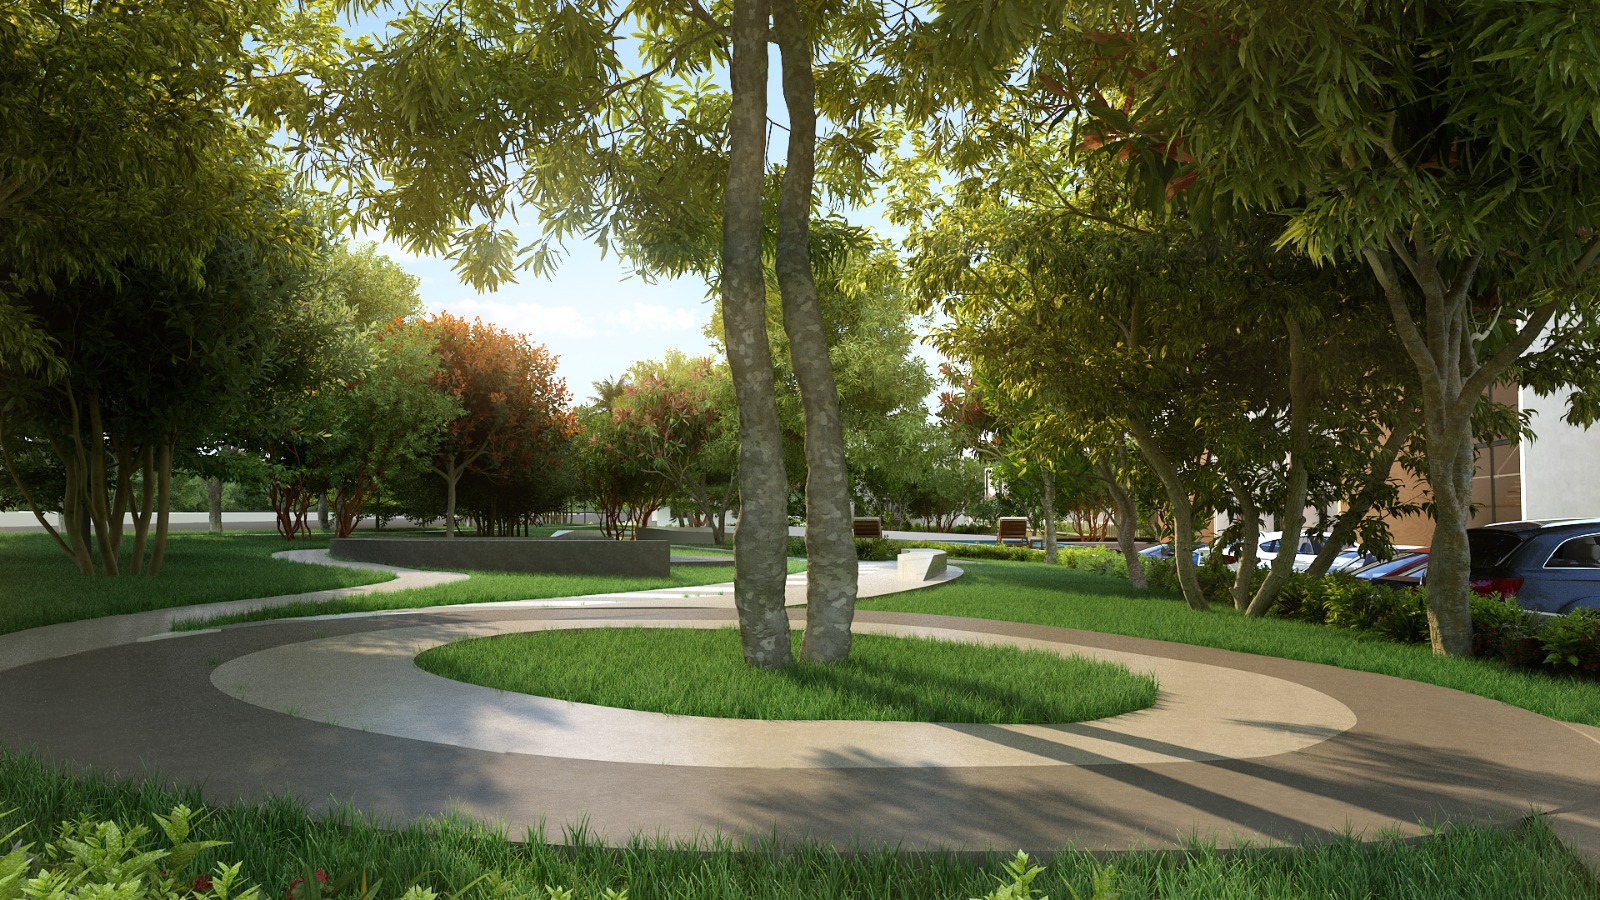
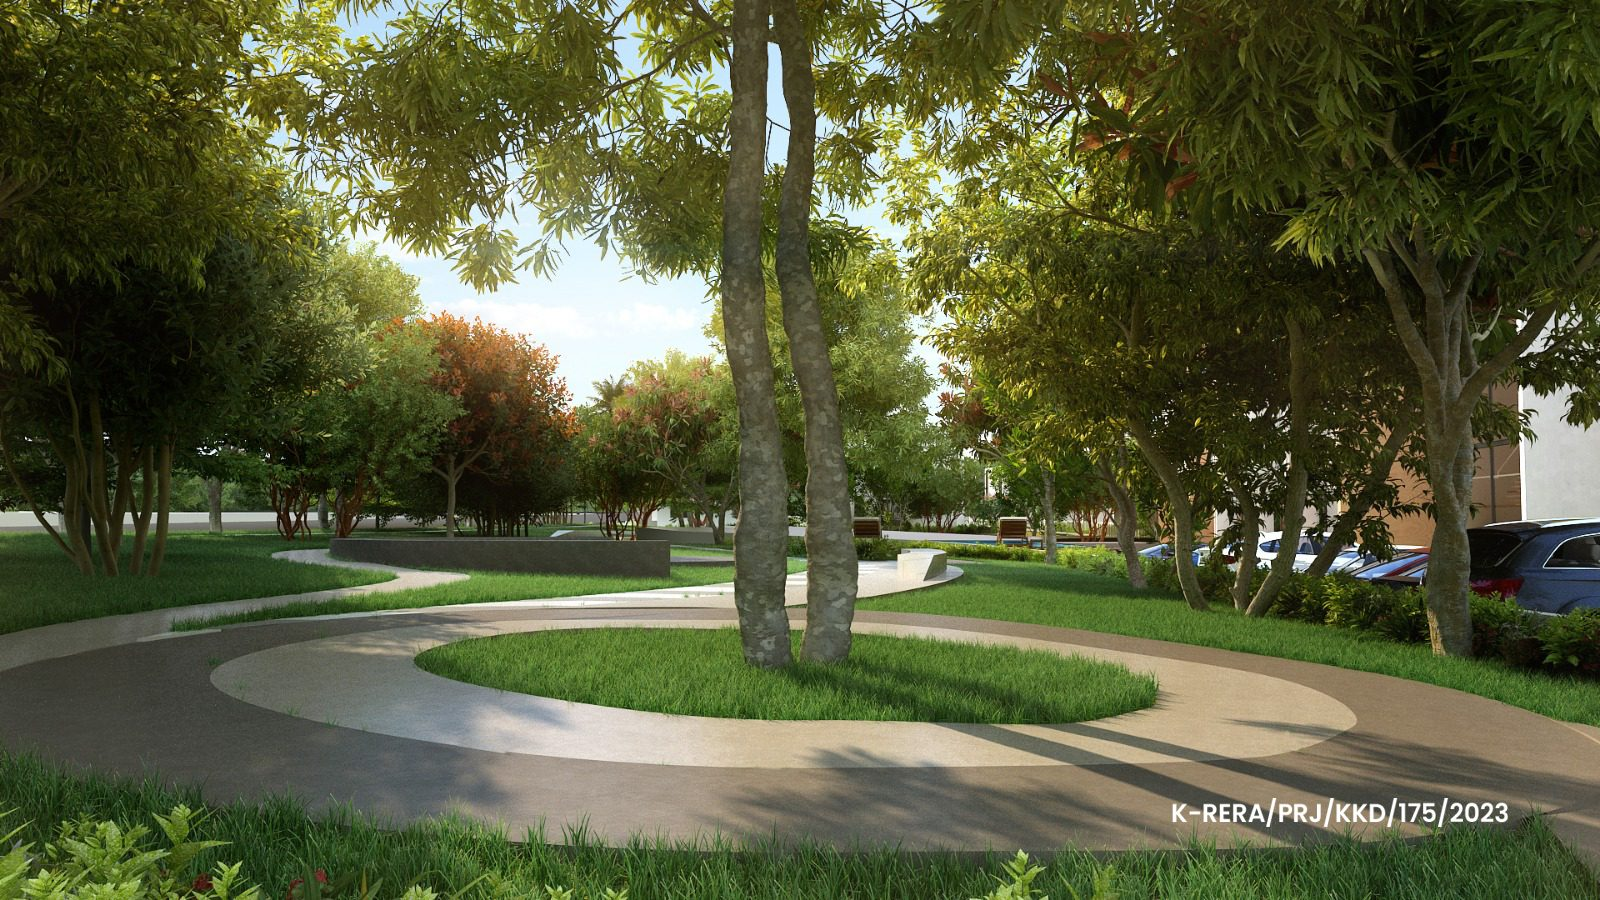
fgf

Changed region(s): [[0.75, 0.8711, 0.9375, 0.9333]]

diff --git a/projectsgreen.html b/projectsgreen.html
@@ -151,7 +151,7 @@
     </section>
 
 
-    <section class="position-relative z-1 pt-5 backgroundimage"
+    <section class="position-relative z-1 pt-5 backgroundimage bgpositionbottom"
       style="background-image: url(assets/images/GREENCITY/ENTRY.jpeg); height: 80vh;">
       <!-- <img class="w-100" src="assets/images/Mainbanner.jpg" alt="" /> -->
       <div class="text-white text-center position-absolute top-0 start-0 ps-5 pt-5">
@@ -186,7 +186,7 @@
       </div>
     </section>
     <section>
-      <div class="container backgroundimage"
+      <div class="container backgroundimage bgpositionbottom"
         style="background-image: url(assets/images/GREENCITY/RECREATION\ \(1\).jpeg);">
         <div class="row">
           <div class="col-12 col-lg-4 ps-5 py-5">
@@ -204,18 +204,18 @@
     <section style="background-color: beige;">
       <div class="container">
         <div class="row">
-          <div class=" col-lg-4 col-12 py-3 ps-0">
+          <div class=" col-lg-4 col-12 py-3 ps-0 pe-sm-0 pe-lg-3">
             <div class=" position-relative ps-0"
               style="background-image: url(assets/images/GREENCITY/STREET\ \(1\).jpeg); min-height: 300px;background-size: cover;">
               <div class="position-absolute top-50 start-50 translate-middle text-center" type="button"
                 data-bs-toggle="modal" data-bs-target="#exampleModal">
-                <img style="max-width: 70px;" src="assets/images/project/dowload.png" alt="">
+                <img style="max-width: 70px;" class="bgpositionbottom" src="assets/images/project/dowload.png" alt="">
                 <h4 class="text-white py-3">DOWNLOAD BROCHURE</h4>
               </div>
             </div>
           </div>
 
-          <div class="col-lg-8 col-12 position-relative backgroundimage py-3 pe-0">
+          <div class="col-lg-8 col-12 position-relative backgroundimage bgpositionbottom py-3 ps-sm-0 pe-0">
             <div class="w-100"
               style="background-image: url(assets/images/GREENCITY/RECREATION\ \(3\).jpeg);background-size: cover; min-height: 300px;">
             </div>

diff --git a/index.html b/index.html
@@ -198,8 +198,8 @@
         bgvideo.play();
       </script>
       <!-- <img class="w-100" src="assets/images/Mainbanner.jpg" alt="" /> -->
-      <!-- <div class="text-white ps-5 pb-5 position-absolute bottom-0 start-0">
-        <h5>
+      <div class="text-white ps-5 pb-5 position-absolute bottom-0 start-0">
+        <!-- <h5>
           SUSTAINABLE <br />
           GLOBAL HABITAT
         </h5>
@@ -207,8 +207,9 @@
 
         <a href="projects.html" class="rounded-0 btn text-white mt-2" style="background-color: #16254c">
           Explore Now
-        </a>
-      </div> -->
+        </a> -->
+        <p class="text-white-50">K-RERA/PRJ/KKD/175/2023</p>
+      </div>
 
       <div class="d-none col-10 position-absolute top-100 start-50 translate-middle">
         <div class="accordion d-block d-sm-none" id="accordionExample">
@@ -378,7 +379,7 @@
       <div class="row">
         <div class="position-relative col-lg-4 col-sm-12 p-2 p-lg-0">
           <a class="text-decoration-none text-white" href="designforlife.html">
-            <img src="assets/images/design4life.jpeg" class="w-100 zoom" alt="">
+            <img src="assets/images/home/griddesignforlife.jpg" class="w-100 zoom" alt="">
             <div class="position-absolute top-50 start-50 translate-middle">
               <h5> DESIGN FOR LIFE</h5>
             </div>

diff --git a/values.html b/values.html
@@ -152,8 +152,8 @@
             </section>
 
 
-            <section class="position-relative z-1 backgroundimage" style="background-image: url(assets/images/values/STREET\ \(2\).jpeg); height: 80vh;">
-                <h5 class="text-white p-2" style="
+            <section class="position-relative z-1 backgroundimage bgpositionbottom" style="background-image: url(assets/images/bannerimages/values.jpg); height: 80vh;">
+                <h5 class="text-white p-2 bg-opacity-25 bg-black" style="
                                                             /* background-color: #16254c; */
                                                             position: absolute;
                                                             top: 50%;

diff --git a/sustainable.html b/sustainable.html
@@ -151,7 +151,7 @@
     </section>
 
 
-    <section class="position-relative z-1 backgroundimage" style="background-image: url(assets/images/bannerimages/sustainable1.jpg); height: 80vh;">
+    <section class="position-relative z-1 backgroundimage bgpositionbottom" style="background-image: url(assets/images/bannerimages/sustainable1.jpg); height: 80vh;">
       <h5 class="text-white p-2" style="
             /* background-color: #16254c; */
             position: absolute;

diff --git a/assets/css/style.css b/assets/css/style.css
@@ -10,6 +10,9 @@
   background-size: cover;
   background-position: center;
 }
+.bgpositionbottom{
+  background-position: bottom;
+}
 
 .bgblue{
   background-color: #15244b;
